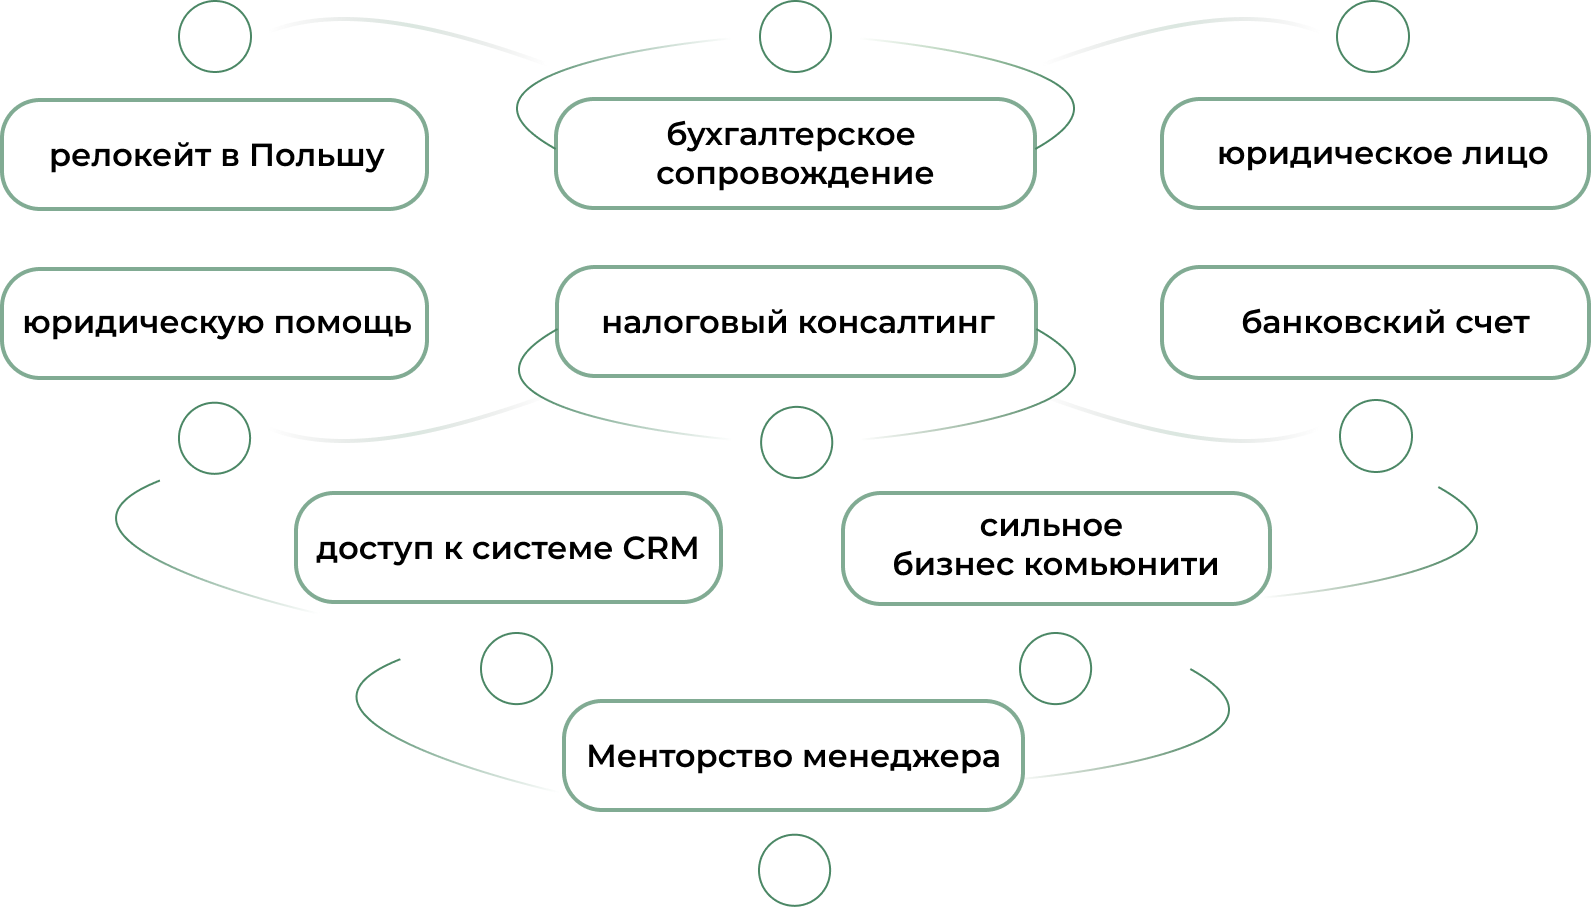
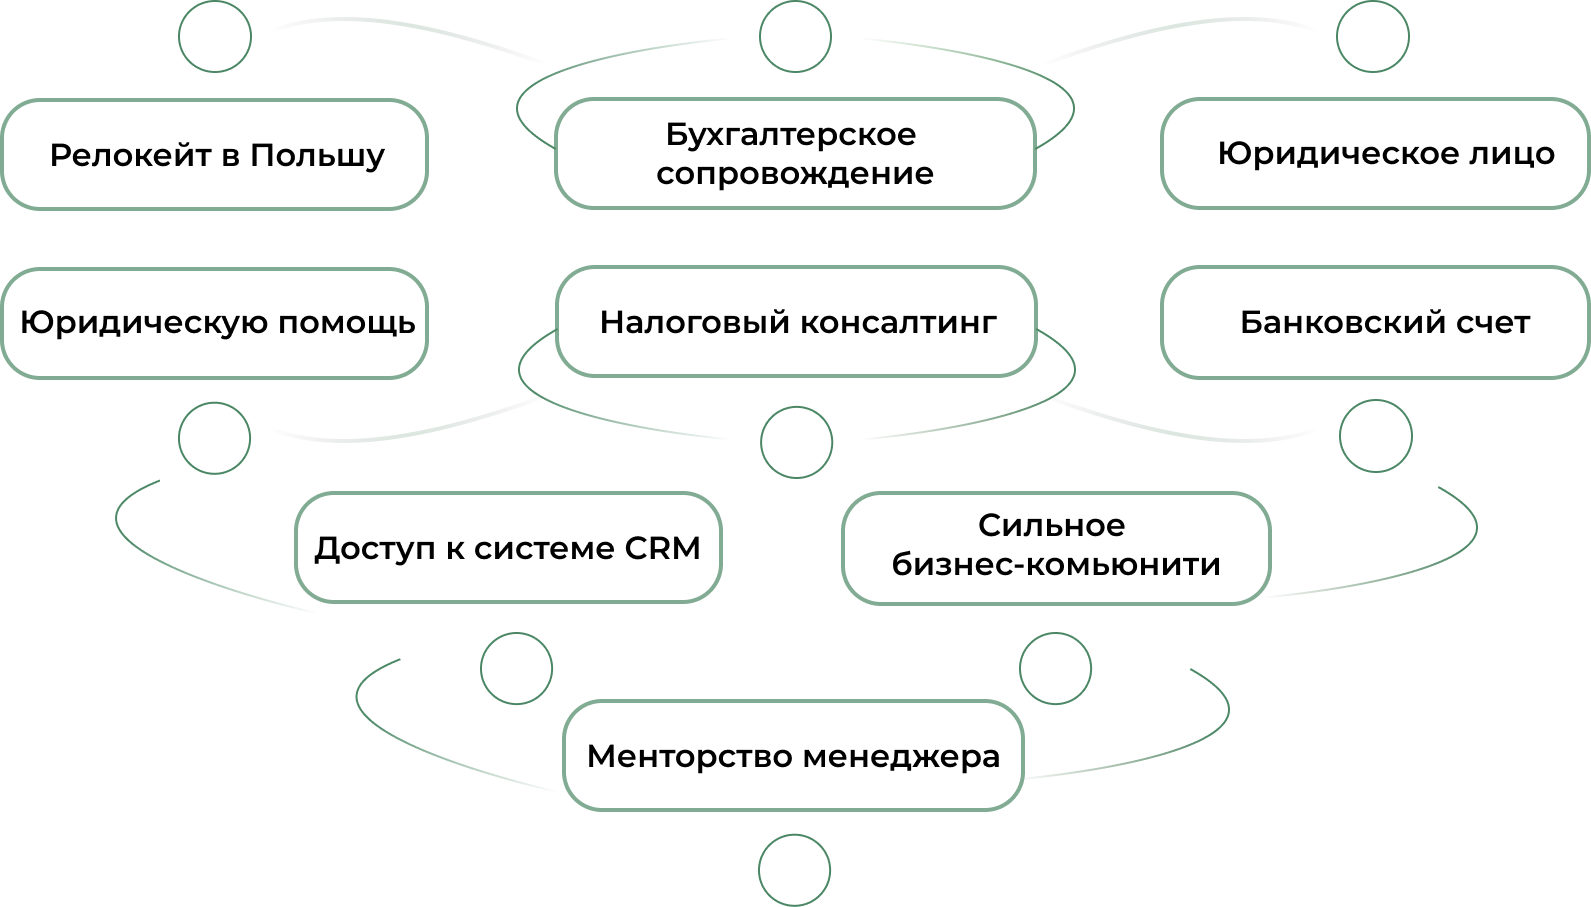
fixed css

diff --git a/pages/index.jsx b/pages/index.jsx
@@ -3,20 +3,13 @@ import { serverSideTranslations } from "next-i18next/serverSideTranslations";
 import { useTranslation } from "next-i18next";
 import { motion } from "framer-motion";
 
-import Button from "../components/ui/Button";
-
 import mainImg from "../public/assets/images/home-main.png";
 import arrowRight from "../public/assets/images/arrow-right.png";
 import Slider from "../components/Slider";
 import { useRouter } from "next/router";
 import Head from "next/head";
-
-const schemas = {
-  pl: "/assets/images/Schema-pl.png",
-  en: "/assets/images/Schema-en.png",
-  uk: "/assets/images/Schema-uk.png",
-  ru: "/assets/images/Schema-ru.png",
-};
+import Heading from "../components/ui/Heading";
+import Schema from "../components/Schema";
 
 export async function getStaticProps({ locale }) {
   return {
@@ -28,7 +21,6 @@ export async function getStaticProps({ locale }) {
 
 const Home = () => {
   const { t } = useTranslation();
-  const { locale } = useRouter();
   return (
     <>
       <Head>
@@ -51,32 +43,23 @@ const Home = () => {
       <main>
         <Slider />
         <section className="max-w-7xl m-auto">
-          <h2 className="lg:text-[40px] tracking-wide	leading-tight	font-bold uppercase my-10 text-center">
+          <Heading tag={"h1"}>
             {t("home:title")}{" "}
             <span className="text-[var(--text-green)]">
               {t("home:title_span")}
             </span>
-          </h2>
-          <div className="flex flex-col items-center lg:flex-row space-y-8">
-            <div className="lg:w-[65%] md:text-[32px] text-center px-6">
+          </Heading>
+
+          <div className="grid lg:grid-cols-2">
+            <Heading tag={"h3"} classNames={"text-justify"}>
               {t("home:text_1")}
-            </div>
-            <div className="lg:w-[35%]">
-              <Image src={mainImg} alt="" height={470} />
+            </Heading>
+            <div className="flex items-center justify-center">
+              <Image src={mainImg} alt="" height={450} width={450} />
             </div>
           </div>
 
-          <div className="my-10 text-center flex flex-col items-center justify-center space-y-16">
-            <h2 className="lg:text-[40px] tracking-wide	leading-tight	font-bold uppercase">
-              <span className="text-[var(--text-green)]">
-                {t("home:text_2")}
-              </span>{" "}
-            </h2>
-            <div className="max-w-[80%]">
-              <Image src={schemas[locale]} alt="" width={1000} height={1000} />
-            </div>
-            <Button title={t("home:button_1")} />
-          </div>
+          <Schema />
         </section>
 
         <section className="max-w-[1440px] m-auto">

diff --git a/components/Schema.jsx b/components/Schema.jsx
@@ -1,0 +1,32 @@
+import Image from "next/image";
+import { useRouter } from "next/router";
+import { useTranslation } from "react-i18next";
+
+import Button from "./ui/Button";
+import Heading from "./ui/Heading";
+
+const schemas = {
+  pl: "/assets/images/Schema-pl.png",
+  en: "/assets/images/Schema-en.png",
+  uk: "/assets/images/Schema-uk.png",
+  ru: "/assets/images/Schema-ru.png",
+};
+
+const Schema = () => {
+  const { locale } = useRouter();
+  const { t } = useTranslation();
+
+  return (
+    <div className="my-10 text-center flex flex-col items-center justify-center space-y-16">
+      <Heading tag={"h2"}>
+        <span className="text-[var(--text-green)]">{t("home:text_2")}</span>
+      </Heading>
+      <div className="max-w-7xl m-auto">
+        <Image src={schemas[locale]} alt="" width={1000} height={1000} />
+      </div>
+      <Button title={t("home:button_1")} />
+    </div>
+  );
+};
+
+export default Schema;

diff --git a/pages/career/index.jsx b/pages/career/index.jsx
@@ -2,8 +2,6 @@ import Image from "next/image";
 import { useTranslation } from "next-i18next";
 import { serverSideTranslations } from "next-i18next/serverSideTranslations";
 
-import Resume from "../../components/Resume";
-
 import teamImg from "../../public/assets/images/team.png";
 import Head from "next/head";
 
@@ -54,9 +52,6 @@ const index = ({ props }) => {
             !
           </div>
         </section>
-        <div className="mt-10">
-          <Resume />
-        </div>
       </div>
     </>
   );

diff --git a/styles/globals.css b/styles/globals.css
@@ -28,12 +28,16 @@
 
 .button{
   box-shadow: 0px 4px 40px rgba(0, 0, 0, 0.25), 0px 16px 40px rgba(33, 33, 33, 0.16);
-  border-radius: 32.5px;
+  border-radius: 32px;
   padding: 16px 32px;
   background: linear-gradient(180deg, #CFE9D9 0%, #4B8765 100%);
-  border: 14px solid #FFFFFF;
+  border: 12px solid #FFFFFF;
   color: #fff;
   display: flex;
   align-items: center;
   justify-content: center;
+}
+
+.button:hover{
+  background: linear-gradient(180deg, #CFE9D9 0%, #2d503c 100%);
 }

diff --git a/components/ui/Heading.jsx b/components/ui/Heading.jsx
@@ -1,0 +1,12 @@
+const styles = {
+  h1: "lg:text-[40px] tracking-wide	leading-tight	font-bold uppercase my-6 text-center",
+  h2: "lg:text-[36px] tracking-wide	leading-tight	font-bold uppercase",
+  h3: "md:text-[30px] text-center",
+};
+
+const Heading = ({ children, tag, classNames = "" }) => {
+  const Tag = tag || "h1";
+  return <Tag className={`${styles[tag]} ${classNames}`}>{children}</Tag>;
+};
+
+export default Heading;

diff --git a/components/ui/Button.jsx b/components/ui/Button.jsx
@@ -1,12 +1,6 @@
-import React from "react";
-import Link from "next/link";
-
 const Button = ({ title }) => {
   return (
-    <button
-      type="submit"
-      className="bg-gradient-to-b from-[#CFE9D9] to-[#4B8765] border-8 border-white rounded-full py-4 px-8 shadow-2xl text-white"
-    >
+    <button type="submit" className="button">
       {title}
     </button>
   );
